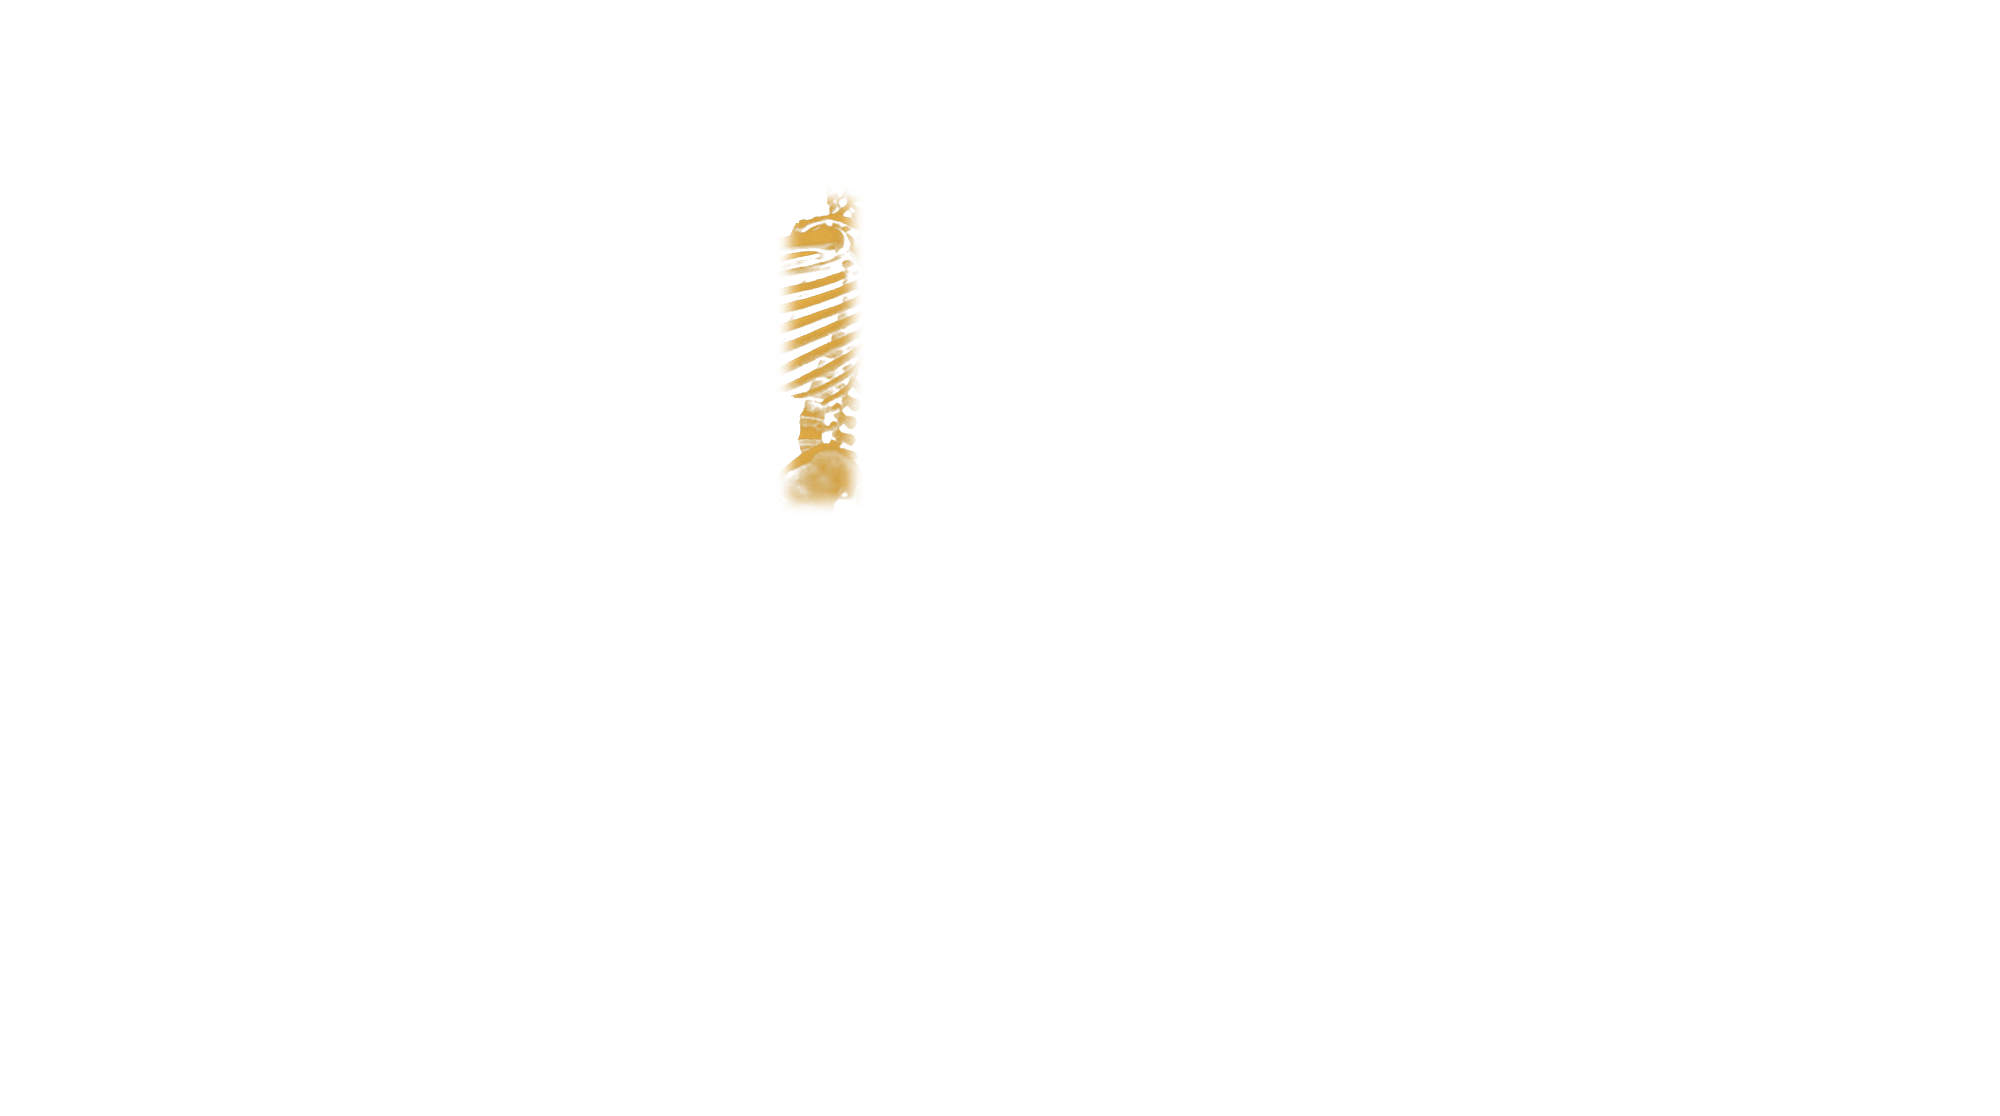
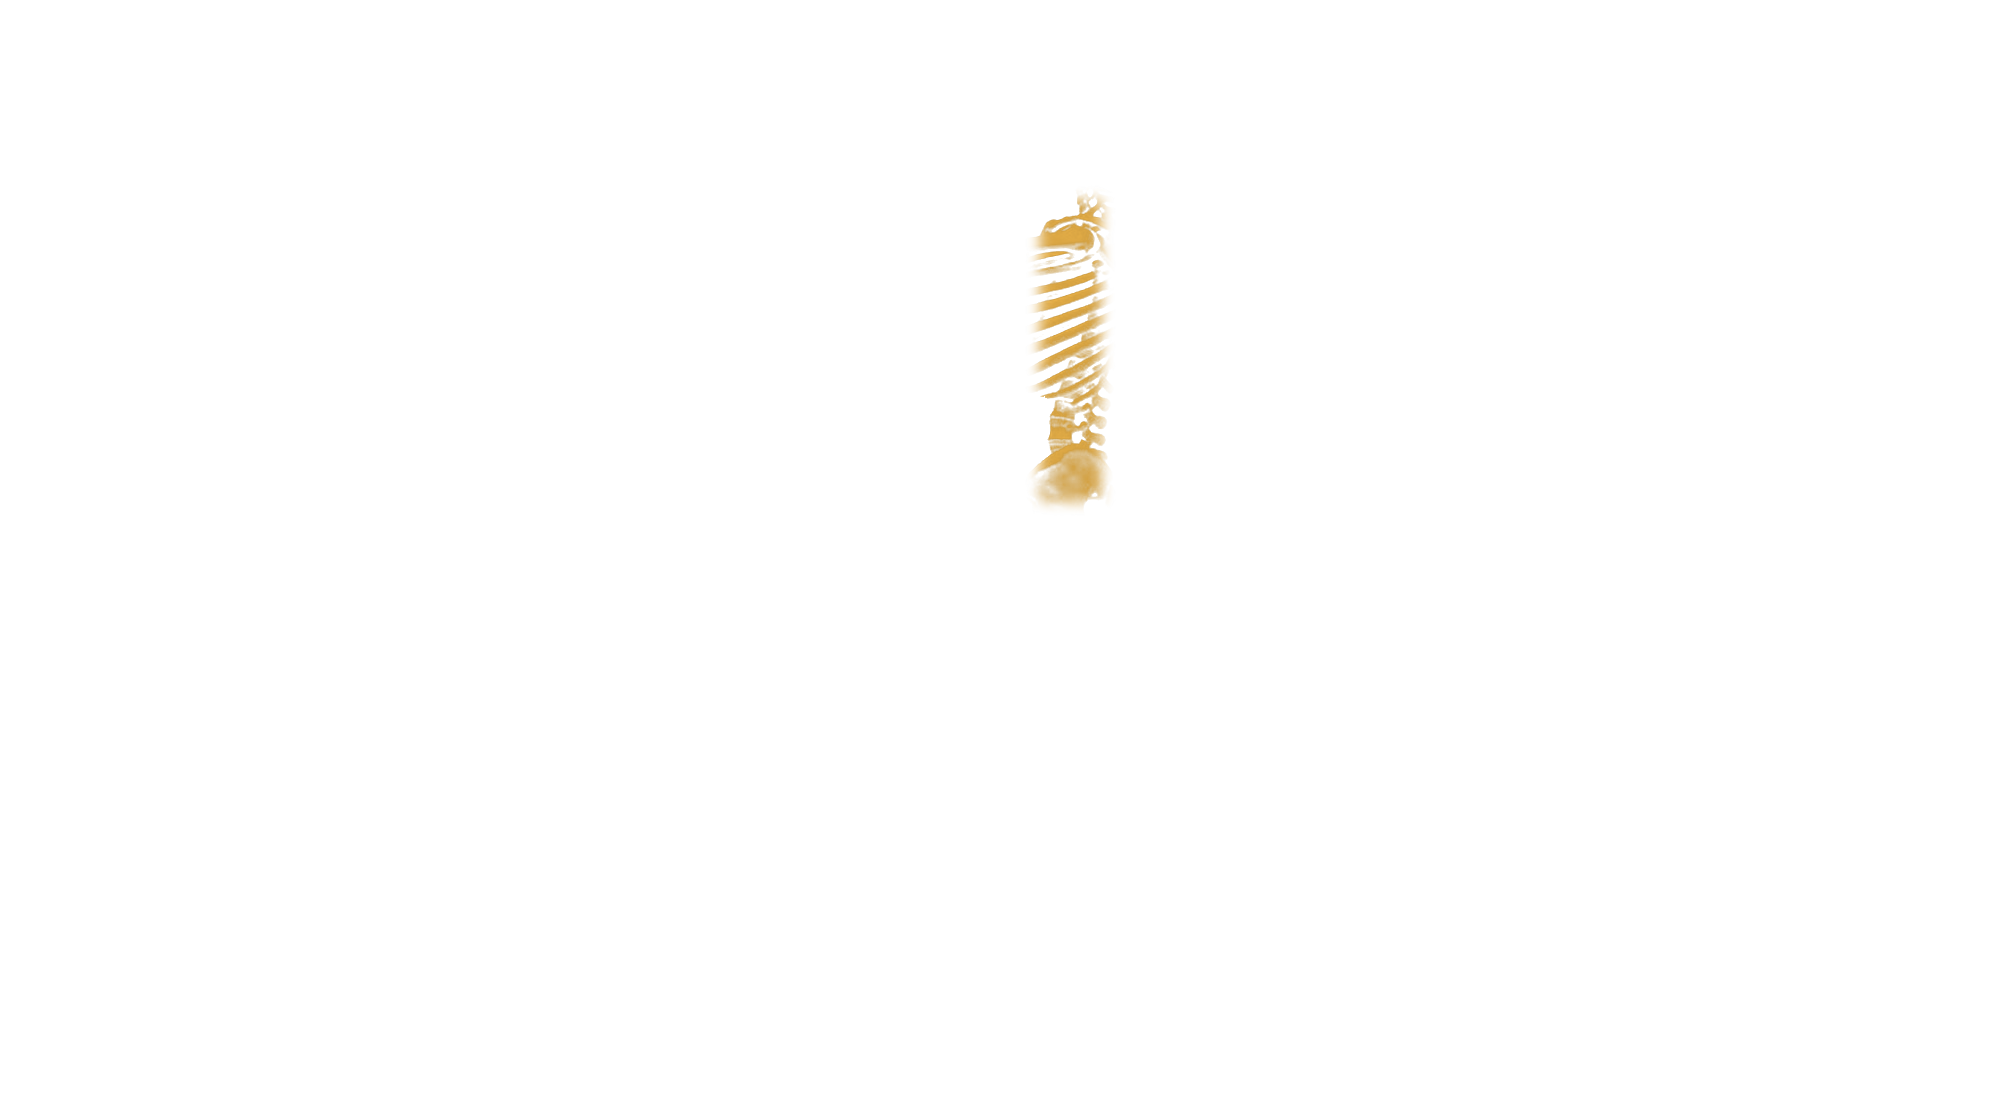
Vídeo 4: realinha a imagem em pé (corpo deslocado em relação ao banco) para eliminar o fantasma na transição

Changed region(s): [[0.372, 0.1828, 0.434, 0.457], [0.496, 0.1828, 0.558, 0.457]]

diff --git a/edita/projeto/scripts/destaques.py b/edita/projeto/scripts/destaques.py
@@ -224,8 +224,8 @@ REGIOES_V3["estab3-pe"] = {
 
 # Vídeo 4 (mesma pasta): em pé, braços à frente sem bastão (frame final de um clipe
 # gerado no Gemini/Veo, por isso a grade de coordenadas é própria desta imagem).
-ESTAB4_BRACO_PE = _ret(400, 210, 800, 310)
-ESTAB4_COLUNA_PE = _ret(790, 200, 850, 500)
+ESTAB4_BRACO_PE = _ret(650, 210, 1050, 310)
+ESTAB4_COLUNA_PE = _ret(1040, 200, 1100, 500)
 
 REGIOES_V3["estab4-pe"] = {
     "coluna": (AMBAR, [ESTAB4_COLUNA_PE]),
